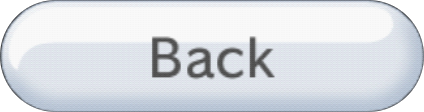
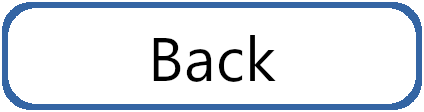
C. 12 removed more old fluff

diff --git a/css/style.css b/css/style.css
@@ -56,7 +56,7 @@
 body {
     padding: 0; margin: 0;
     overflow: hidden;
-    background-color: black;
+    background-color: white;
     color: #000000;
     font-family: 'Regular';
     font-size: 2vh;
@@ -105,7 +105,7 @@ a, button {
 .splash {
     position: fixed;
     top: 0; left: 0; right: 0; bottom: 0;
-    background-color: black;
+    background-color: white;
     z-index: 1000;
     display: flex;
     justify-content: center;
@@ -371,7 +371,7 @@ a, button {
 .ch-c .ch.occupied img,
 .ch-c .ch.occupied iframe {
     width: 90%; height: 90%;
-    object-fit: cover;
+    object-fit: contain;
     position: absolute;
     border-radius: 15px; border: 5px solid red;
 }
@@ -517,6 +517,7 @@ body:has(.main-menu.ch-trans-on) .ch-selection {
 .ch-selection .thecontent {
     width: max-content;
     position: relative;
+    border: 7px solid red;
 }
 
 .ch-selection .thecontent img {
@@ -527,43 +528,9 @@ body:has(.main-menu.ch-trans-on) .ch-selection {
     animation-fill-mode: forwards;
 }
 
-.ch-selection .thecontent .tl,
-.ch-selection .thecontent .tr,
-.ch-selection .thecontent .bl,
-.ch-selection .thecontent .br {
-    background-size: contain;
-    background-repeat: no-repeat;
-    aspect-ratio: 1/1;
-    width: 15vw;
-    position: absolute;
-}
-
-.ch-selection .thecontent .tl {
-    background-image: url('../assets/border-topleft.png');
-    top: -1px; left: -1px;
-}
-
-.ch-selection .thecontent .tr {
-    background-image: url('../assets/border-topright.png');
-    top: -1px; right: -1px;
-}
-
-.ch-selection .thecontent .bl {
-    background-image: url('../assets/border-bottomleft.png');
-    bottom: -1px; left: -1px;
-    background-position: bottom center;
-}
-
-.ch-selection .thecontent .br {
-    background-image: url('../assets/border-bottomright.png');
-    bottom: -1px; right: -1px;
-    background-position: bottom center;
-}
-
 .ch-selection .thecontent .buttons {
     background-image: url('../assets/splash-bar.png');
     background-size: 4px;
-    border-top: 0px solid black;
     margin-top: 0;
     height: 17vh;
     display: flex;
@@ -929,42 +896,12 @@ too sick to be seen
 }
 
 a.alt-btn  {
-    background-image: url('../assets/alt-btn-texture.png');
-    background-size: contain;
-    background-repeat: repeat-x;
     padding-top: 0.8vh;
     padding-inline: 1vh;
     height: 10vh;
-    color: #444;
     font-size: 4.5vh;
-    text-align: center;
     cursor: inherit;
     position: relative;
-    transition: 150ms;
-}
-
-a.alt-btn::before {
-    content: '';
-    background-image: url('../assets/alt-btn-left.png');
-    background-size: contain;
-    background-repeat: no-repeat;
-    height: 100%;
-    width: 5vw;
-    position: absolute;
-    top: 0;
-    left: -2.6vw;
-}
-
-a.alt-btn::after {
-    content: '';
-    background-image: url('../assets/alt-btn-right.png');
-    background-size: contain;
-    background-repeat: no-repeat;
-    height: 100%;
-    width: 5vw;
-    position: absolute;
-    top: 0;
-    right: -4.9vw;
 }
 
 a.alt-btn:hover {

diff --git a/index.html b/index.html
@@ -50,12 +50,12 @@
                     <div class="onhover" onmouseover="hover()" onclick="zip()"></div>
                     <span class="tag">Main YouTube</span>
                 </div>
-                <!--<div class="ch occupied" data-id="shop" data-href="shop">
+                <div class="ch occupied" data-id="shop" data-href="shop">
                     <iframe src=""></iframe>
                     <div class="onhover" onmouseover="hover()" onclick="zip()"></div>
                     <span class="tag">Shop Channel</span>
                 </div>
-                <div class="ch occupied" data-id="youtubealt" data-href="https://www.youtube.com/@memelordena">
+                <!--<div class="ch occupied" data-id="youtubealt" data-href="https://www.youtube.com/@memelordena">
                     <iframe src=""></iframe>
                     <div class="onhover" onmouseover="hover()" onclick="zip()"></div>
                     <span class="tag">Memes Channel</span>
@@ -88,7 +88,6 @@
                 <div class="ch blank"></div>
                 <div class="ch blank"></div>
                 <div class="ch blank"></div>
-                <div class="ch blank"></div>
             </div>
             <div class="ch-c">
                 <div class="ch blank"></div>
@@ -103,6 +102,11 @@
                 <div class="ch blank"></div>
                 <div class="ch blank"></div>
                 <div class="ch blank"></div>
+                <!--<div class="ch occupied" data-id="administration" data-href="settings/admin/login.php">
+                    <iframe src=""></iframe>
+                    <div class="onhover" onmouseover="hover()" onclick="zip()"></div>
+                    <span class="tag">Administration Channel</span>-->
+                </div>
             </div>
             <div class="next">
                 <img src="assets/next-default.png" class="def" />
@@ -159,7 +163,7 @@
                 </span>
             </div>
         </div>
-        <a class="alt-btn back">Back</a>
+        <a class="alt-btn back"><img src="assets/back.png"></a>
     </div>
     <div class="bottom">
         <span id="date2"></span>
@@ -221,11 +225,11 @@
 <div class="settings">
     <div class="settings-content">
         <div class="topbar">
-            <img src="assets/wii-logo.svg" />
+            <img src="assets/favicon.png" />
         </div>
         <div class="cells">
-            <a class="info buttonlike" href="/credits" target="_blank"></a>
-            <a class="stngs buttonlike" href="/settings"></a>
+            <a class="info buttonlike" href="credits/" target="_blank"></a>
+            <a class="stngs buttonlike" href="settings/"></a>
         </div>
         <div class="bottombar">
             <a class="alt-btn close">Back</a>

diff --git a/channelart/shop/channel.html b/channelart/shop/channel.html
@@ -5,74 +5,11 @@
     <meta name="viewport" content="width=device-width, initial-scale=1.0" />
     <title>wtf r u doin here</title>
     <link rel="stylesheet" href="../../css/base.css" />
-    <style>
-        body {
-            overflow: hidden;
-            padding: 0;
-            margin: 0;
-
-            background-color: white;
-        }
-        .gradient {
-            background-image: linear-gradient(-70deg, white, #ffffff11, white);
-            position: absolute;
-            inset: 0;
-            z-index: 2;
-        }
-        .grid {
-            background-image: url('ch-grid.png');
-            background-position: bottom right;
-            background-repeat: no-repeat;
-            background-size: 140vw;
-            position: absolute;
-            width: 100vw; height: 100vh;
-            z-index: 1;
-            animation: grid 15s linear infinite;
-        }
-        @keyframes grid {
-            0% {opacity: 0; background-position: top right;}
-            10% {opacity: 1;}
-            90% {opacity: 1;}
-            100% {opacity: 0; background-position: bottom left;}
-        }
-        .logo {
-            opacity: 0;
-            z-index: 3;
-            position: absolute;
-            inset: 0;
-            display: flex;
-            justify-content: center;
-            flex-direction: column;
-            align-items: center;
-            animation: logo 15s linear infinite;
-        }
-        @keyframes logo {
-            0% {opacity: 0;}
-            40% {opacity: 0;}
-            50% {opacity: 1;}
-            90% {opacity: 1;}
-            100% {opacity: 0;}
-        }
-        .logo img {
-            height: 70vh;
-        }
-        .logo span {
-            font-family: 'Bold';
-            letter-spacing: -0.5vh;
-            font-size: 14vh;
-            pointer-events: none;
-            line-height: 20vh;
-            background-image: linear-gradient(to bottom, #09beff, #009eff);
-            -webkit-text-fill-color: transparent;
-            -webkit-background-clip: text;
-            background-clip: text;
-        }
-    </style>
+    <link rel="stylesheet" href="../../css/titles.css" />
 </head>
 <body>
     <div class="logo">
-        <img src="logo.png" />
-        <span>Wii Shop Channel</span>
+        <span>Shop Channel</span>
     </div>
     <div class="gradient"></div>
     <div class="grid"></div>

diff --git a/css/titles.css b/css/titles.css
@@ -1,0 +1,60 @@
+body {
+    overflow: hidden;
+    padding: 0;
+    margin: 0;
+    background-color: white;
+}
+
+.gradient {
+    background-image: linear-gradient(-70deg, white, black);
+    position: absolute;
+    inset: 0;
+    z-index: 2;
+}
+
+.grid {
+    background-image: none;
+    background-position: bottom right;
+    background-repeat: no-repeat;
+    background-size: 140vw;
+    position: absolute;
+    width: 100vw; height: 100vh;
+    z-index: 1;
+    animation: grid 15s linear infinite;
+}
+@keyframes grid {
+    0% {opacity: 0; background-position: top right;}
+    10% {opacity: 1;}
+    90% {opacity: 1;}
+    100% {opacity: 0; background-position: bottom left;}
+}
+.logo {
+    opacity: 0;
+    z-index: 3;
+    position: absolute;
+    inset: 0;
+    display: flex;
+    justify-content: center;
+    flex-direction: column;
+    align-items: center;
+    animation: logo 15s linear infinite;
+}
+@keyframes logo {
+    0% {opacity: 0;}
+    40% {opacity: 0;}
+    50% {opacity: 1;}
+    90% {opacity: 1;}
+    100% {opacity: 0;}
+}
+
+.logo span {
+    font-family: 'Bold';
+    letter-spacing: -0.5vh;
+    font-size: 14vh;
+    pointer-events: none;
+    line-height: 20vh;
+    background-image: linear-gradient(to bottom, #09beff, #009eff);
+    -webkit-text-fill-color: transparent;
+    -webkit-background-clip: text;
+    background-clip: text;
+}

diff --git a/channelart/youtube/channel.html b/channelart/youtube/channel.html
@@ -5,21 +5,14 @@
     <meta name="viewport" content="width=device-width, initial-scale=1.0" />
     <title>wtf r u doin here</title>
     <link rel="stylesheet" href="../../css/base.css" />
-    <style>
-        body {
-            overflow: hidden;
-            padding: 0;
-            margin: 0;
-        }
-        img {
-            width: 100vw;
-            height: 100vh;
-            object-fit: cover;
-            object-position: center;
-        }        
-    </style>
+    <link rel="stylesheet" href="../../css/titles.css" />
 </head>
 <body>
-    <img src="res.png" />
+    
+    <div class="logo">
+        <span>Main YouTube Channel</span>
+    </div>
+    <div class="gradient"></div>
+    <div class="grid"></div>
 </body>
 </html>

diff --git a/settings/admin/login.php b/settings/admin/login.php
@@ -1,0 +1,3 @@
+<?php
+    echo phpinfo;
+?>
